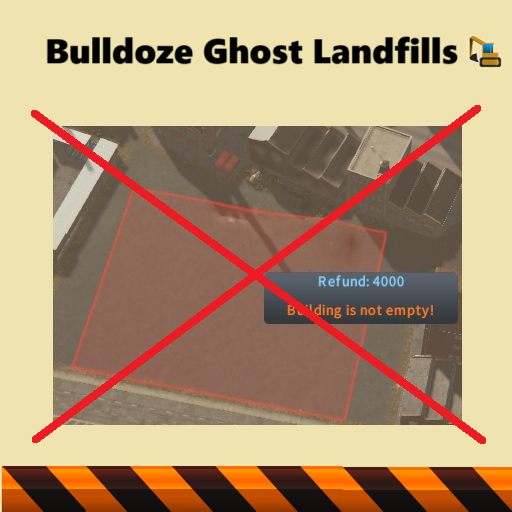
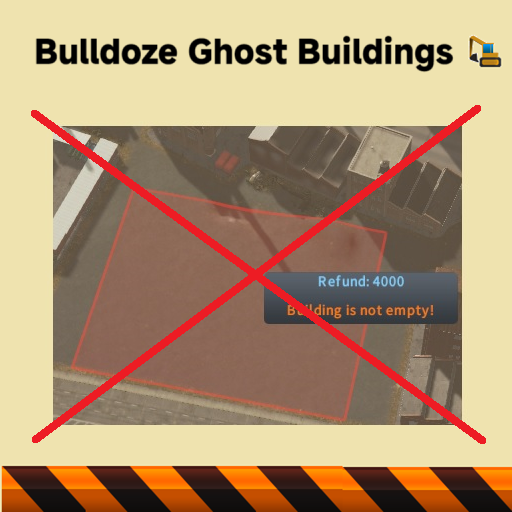
v1.1

Changed region(s): [[0.0625, 0.0625, 0.9062, 0.1562]]

diff --git a/BulldozeGhostLandfills/Mod.cs b/BulldozeGhostLandfills/Mod.cs
@@ -3,18 +3,17 @@ using ColossalFramework.UI;
 using ICities;
 using System;
 using System.Collections;
-using System.Collections.Generic;
 using WillCommons;
-namespace BulldozeGhostLandfills
+namespace BulldozeGhostBuildings
 {
     public class Mod : PatcherModBase
     {
-        public override string BaseName => "Bulldoze Ghost Landfills";
-        public override string Description => "Use bulldozer to bulldoze your ghost landfills";
-        public override string HarmonyID => "Will258012.BulldozeGhostLandfills";
+        public override string BaseName => "Bulldoze Ghost Buildings";
+        public override string Description => "Demolish your ghost buildings more easily";
+        public override string HarmonyID => "Will258012.BulldozeGhostBuildings";
         public void OnSettingsUI(UIHelper helper)
         {
-            bulldozeButton = helper.AddButton("Find and bulldoze all ghost buildings in city", () => FindAndBulldozeGhostBuildings()) as UIButton;
+            bulldozeButton = helper.AddButton("Find and bulldoze all ghost buildings in city", FindAndBulldozeGhostBuildings) as UIButton;
             bulldozeButton.playAudioEvents = true;
             if (!isLoaded)
             {
@@ -36,32 +35,38 @@ namespace BulldozeGhostLandfills
             }
             try
             {
-                var buildingsToBulldoze = new List<ushort>();
+                var buildingsToBulldoze = new FastList<ushort>();
 
                 for (ushort i = 0; i < BuildingManager.instance.m_buildings.m_buffer.Length; i++)
                 {
                     var building = BuildingManager.instance.m_buildings.m_buffer[i];
                     if (building.m_buildIndex != default &&
-                     building.m_flags != Building.Flags.None &&
-                    !building.m_flags.IsFlagSet(Building.Flags.Deleted) &&
-                    !building.m_flags.IsFlagSet(Building.Flags.Created))
+                        building.m_flags != Building.Flags.None &&
+                        !building.m_flags.IsFlagSet(Building.Flags.Deleted) &&
+                        !building.m_flags.IsFlagSet(Building.Flags.Created))
                         buildingsToBulldoze.Add(i);
                 }
-                
+
                 foreach (var building in buildingsToBulldoze)
                 {
                     SimulationManager.instance.AddAction(ReleaseBuilding(building));
                 }
 
+
                 IEnumerator ReleaseBuilding(ushort building)
                 {
                     BuildingManager.instance.ReleaseBuilding(building);
+
+                    var infoClass = BuildingManager.instance.m_buildings.m_buffer[building].Info.m_class;
+                    BuildingManager.instance.RemoveServiceBuilding(building, infoClass.m_service);
                     yield return null;
                 }
 
                 UIView.library.ShowModal<ExceptionPanel>("ExceptionPanel").SetMessage(
                 BaseName,
-                buildingsToBulldoze.Count > 0 ? $"Successfully found and bulldozed {buildingsToBulldoze.Count} ghost building(s)!" : "No ghost buildings found!",
+                buildingsToBulldoze.m_size > 0 ?
+                $"Successfully bulldozed {buildingsToBulldoze.m_size} ghost building(s)!"
+                : "No ghost buildings found!",
                 false);
             }
             catch (Exception e)
@@ -77,10 +82,25 @@ namespace BulldozeGhostLandfills
         public override void OnLevelLoaded(LoadMode mode)
         {
             isLoaded = true;
-            if (bulldozeButton != null)
+            if (!HasPatched)
             {
-                bulldozeButton.isEnabled = true;
-                bulldozeButton.tooltip = null;
+                UIView.library.ShowModal<ExceptionPanel>("ExceptionPanel").SetMessage(
+                BaseName,
+                @"This mod won't work because the Harmony patches could not be applied successfully :(
+Please check the Harmony mod status and try again, or report us with your output_log.txt file.",
+                true);
+                if (bulldozeButton != null)
+                {
+                    bulldozeButton.tooltip = "Disable due to mod error";
+                }
+            }
+            else
+            {
+                if (bulldozeButton != null)
+                {
+                    bulldozeButton.isEnabled = true;
+                    bulldozeButton.tooltip = null;
+                }
             }
         }
 

diff --git a/BulldozeGhostLandfills/Patches/BulldozePatch.cs b/BulldozeGhostLandfills/Patches/BulldozePatch.cs
@@ -1,15 +1,23 @@
 using ColossalFramework;
 using HarmonyLib;
 
-namespace BulldozeGhostLandfills.Patches
+namespace BulldozeGhostBuildings.Patches
 {
     [HarmonyPatch]
     public static class BulldozePatch
     {
         [HarmonyPatch(typeof(LandfillSiteAI), nameof(LandfillSiteAI.CheckBulldozing))]
+        [HarmonyPostfix]
+        public static void CheckBulldozingPatch1(ref ToolBase.ToolErrors __result, ref Building data)
+            => CheckBulldozingPatch(ref __result, ref data);
+
         [HarmonyPatch(typeof(CemeteryAI), nameof(CemeteryAI.CheckBulldozing))]
-        [HarmonyPatch(typeof(SnowDumpAI),nameof(SnowDumpAI.CheckBulldozing))]
-        public static void Postfix(ref ToolBase.ToolErrors __result, ref Building data)
+        [HarmonyPostfix]
+        public static void CheckBulldozingPatch2(ref ToolBase.ToolErrors __result, ref Building data)
+            => CheckBulldozingPatch(ref __result, ref data);
+
+        [HarmonyPatch(typeof(SnowDumpAI), nameof(SnowDumpAI.CheckBulldozing))]
+        public static void CheckBulldozingPatch(ref ToolBase.ToolErrors __result, ref Building data)
         {
             // The original method only checks if the building is empty.
             // This modification accounts for the special case of building, which don't actually exist.
@@ -18,6 +26,20 @@ namespace BulldozeGhostLandfills.Patches
                 // Modify the return value to bypass restrictions for ghost landfills.
                 __result = ToolBase.ToolErrors.None;
             }
+        }
+
+        [HarmonyPatch(typeof(BuildingManager), nameof(BuildingManager.ReleaseBuilding))]
+        [HarmonyPostfix]
+        public static void ReleaseBuildingPatch(ref BuildingManager __instance, ushort building)
+        {
+            /*
+            Game can load buildings that have citizen units, but when the building is released, the citizen units won't be reset.
+            For ghost buildings, they will still exist after saving and reloading, even if they have been bulldozed,
+            because they still have citizen units data.
+            This manually resets citizen units to prevent the game from loading these buildings again.
+            */
+            __instance.m_buildings.m_buffer[building].m_citizenUnits =
+            __instance.m_buildings.m_buffer[building].m_citizenCount = default;
         }
     }
 }
